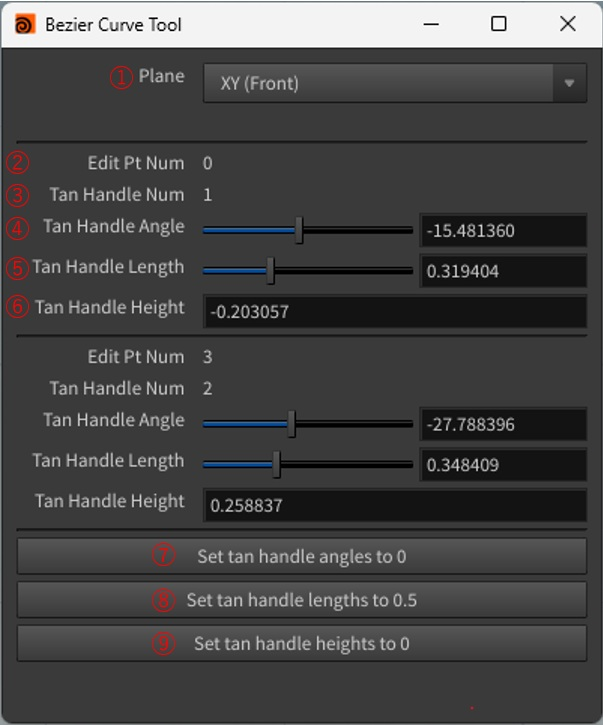
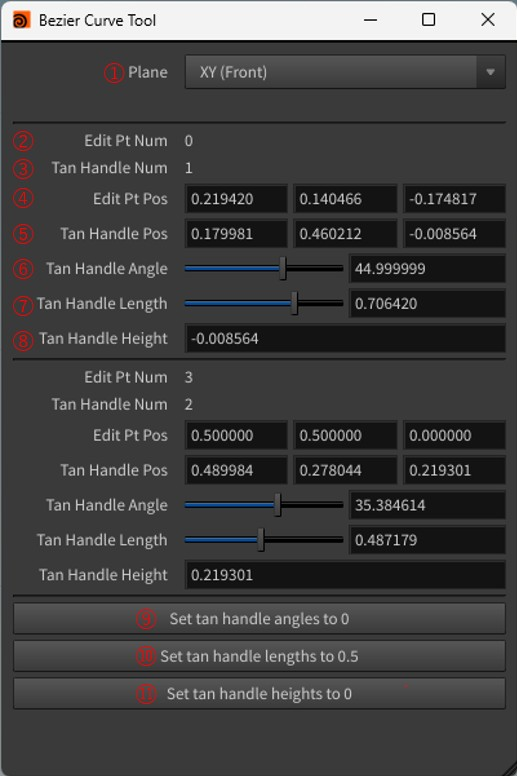
README修正

diff --git a/README.md b/README.md
@@ -32,14 +32,16 @@ Houdini Indie Limited-Commercial 21.0.440
 
 | | | |
 | - | - | - |
-| 1 | Plane | どの平面(視点)で作業するかを設定します。<br>XY (Front)/YZ (Right)/ZX (Top) |
+| 1 | Plane | 作業する平面(視点)を設定します。<br>XY (Front) / YZ (Right) / ZX (Top) |
 | 2 | Edit Pt Num | 選択中の編集ポイント番号です。 |
 | 3 | Tan Handle Num | 選択中の接線ハンドル番号です。 |
-| 4 | Tan Hadle Angle | 接線ハンドルの角度を設定します。 <br><img src="image/gui001.jpg" width="200">|
-| 5 | Tan Handle Length | 接線ハンドルの長さを設定します。1で編集ポイント間の距離と同じ長さになるように、正規化されています。 |
-| 6 | Tan Handle Height | 接線ハンドルの高さを設定します。<br>ZX (Top)の例:<br><img src="image/gui002.jpg" width="200"> |
-| 7 | Set tan handle angles to 0 | 各接線ハンドルの角度を0に設定します。 |
-| 8 | Set tan handle lengths to 0.5 | 各接線ハンドルの長さを0.5(セグメントの中央)に設定します。 |
-| 9 | Set tan handle heights to 0 | 各接線ハンドルの高さを0に設定します。 |
+| 4 | Edit Pt Pos | 編集ポイントの位置を設定します。 |
+| 5 | Tan Handle Pos | 接戦ハンドルの位置を設定します。 |
+| 6 | Tan Hadle Angle | 接線ハンドルの角度を設定します。 <br><img src="image/gui001.jpg" width="200">|
+| 7 | Tan Handle Length | 接線ハンドルの長さを設定します。1で編集ポイント間の距離と同じ長さになるように、正規化されています。 |
+| 8 | Tan Handle Height | 接線ハンドルの高さを設定します。<br>ZX (Top)の例:<br><img src="image/gui002.jpg" width="200"> |
+| 9 | Set tan handle angles to 0 | 各接線ハンドルの角度を0に設定します。 |
+| 10 | Set tan handle lengths to 0.5 | 各接線ハンドルの長さを0.5(セグメントの中央)に設定します。 |
+| 11 | Set tan handle heights to 0 | 各接線ハンドルの高さを0に設定します。 |
 ## お詫び
 本ツールは公式のCurve toolを外部から無理やり制御しています。そのため、エラーが発生する事がありますが、手元ではクラッシュまでは発生していないため許容としています。あらかじめご了承ください。
